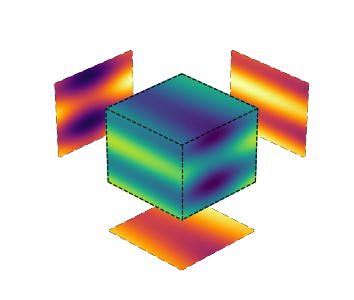
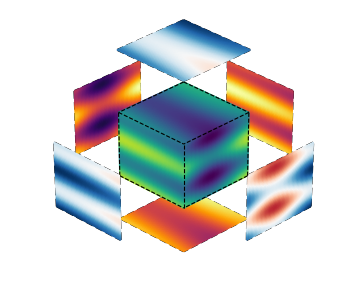
exploded front panels

diff --git a/box.py b/box.py
@@ -164,7 +164,7 @@ class Box:
             lines.set(**fmt)
 
 
-    def draw_top(self):
+    def draw_top(self, cmap=plt.cm.viridis):
         farr = self._check_for_point([None, None, self.z0 + self.dz])
         cors = self.filter_points( farr )
         data_slice = self.data[:,:,-1] 
@@ -176,9 +176,9 @@ class Box:
         z1 = self.z0 + self.dz
         Z = z1*np.ones(X.shape)
 
-        self.draw_surface(X,Y,Z,data_slice)
+        self.draw_surface(X,Y,Z,data_slice, cmap=cmap)
 
-    def draw_left(self):
+    def draw_left(self, cmap=plt.cm.viridis):
         farr = self._check_for_point([None, self.y0 + self.dy, None])
         cors = self.filter_points( farr )
         data_slice = self.data[:,-1,:]
@@ -190,9 +190,9 @@ class Box:
         y1 = self.y0 + self.dy
         Y = y1*np.ones(X.shape)
 
-        self.draw_surface(X,Y,Z,data_slice)
+        self.draw_surface(X,Y,Z,data_slice, cmap=cmap)
 
-    def draw_right(self):
+    def draw_right(self, cmap=plt.cm.viridis):
         farr = self._check_for_point([self.x0 + self.dx, None, None])
         cors = self.filter_points( farr )
         data_slice = self.data[-1,:,:] 
@@ -204,10 +204,10 @@ class Box:
         x1 = self.x0 + self.dx
         X = x1*np.ones(Z.shape)
 
-        self.draw_surface(X,Y,Z,data_slice)
+        self.draw_surface(X,Y,Z,data_slice, cmap=cmap)
 
 
-    def draw_exploded_bottom(self, off=dx):
+    def draw_exploded_bottom(self, off=dx, cmap=plt.cm.inferno):
         farr = self._check_for_point([None, None, self.z0])
         cors = self.filter_points( farr )
         data_slice = self.data[:,:,0] 
@@ -219,10 +219,10 @@ class Box:
         z1 = self.z0 - off
         Z = z1*np.ones(X.shape)
 
-        self.draw_surface(X,Y,Z,data_slice, cmap=plt.cm.inferno)
+        self.draw_surface(X,Y,Z,data_slice, cmap=cmap)
 
 
-    def draw_exploded_left(self, off=dx):
+    def draw_exploded_left(self, off=dx, cmap=plt.cm.inferno):
         farr = self._check_for_point([None, self.y0, None])
         cors = self.filter_points( farr )
         data_slice = self.data[:,0,:]
@@ -234,10 +234,10 @@ class Box:
         y1 = self.y0 - off
         Y = y1*np.ones(X.shape)
 
-        self.draw_surface(X,Y,Z,data_slice, cmap=plt.cm.inferno)
+        self.draw_surface(X,Y,Z,data_slice, cmap=cmap)
 
 
-    def draw_exploded_right(self, off=dx):
+    def draw_exploded_right(self, off=dx, cmap=plt.cm.inferno):
         farr = self._check_for_point([self.x0, None, None])
         cors = self.filter_points( farr )
         data_slice = self.data[0,:,:] 
@@ -249,7 +249,7 @@ class Box:
         x1 = self.x0 - off
         X = x1*np.ones(Z.shape)
 
-        self.draw_surface(X,Y,Z,data_slice, cmap=plt.cm.inferno)
+        self.draw_surface(X,Y,Z,data_slice, cmap=cmap)
 
 
     # mimick volume rendering with multiple opaque slices
@@ -363,6 +363,7 @@ if __name__ == "__main__":
     box.draw_outline()
 
 
+    #back exploded panels
     off = 0.7
     box.draw_exploded_panels_outline("bottom", off=off)
     box.draw_exploded_panels_outline("left",   off=off)
@@ -372,6 +373,17 @@ if __name__ == "__main__":
     box.draw_exploded_left(  off=off)
     box.draw_exploded_right( off=off)
 
+    #front exploded panels
+    off = -1.95
+    cmap = plt.cm.RdBu
+    box.draw_exploded_panels_outline("bottom", off=off)
+    box.draw_exploded_panels_outline("left",   off=off)
+    box.draw_exploded_panels_outline("right",  off=off)
+    
+    box.draw_exploded_bottom(off=off, cmap=cmap)
+    box.draw_exploded_left(  off=off, cmap=cmap)
+    box.draw_exploded_right( off=off, cmap=cmap)
+
 
     axs[0].set_axis_off()
     axs[0].view_init(35.0, 45.0)
@@ -379,7 +391,7 @@ if __name__ == "__main__":
 
     axisEqual3D(axs[0])
     fname = 'box'
-    plt.subplots_adjust(left=0.0, bottom=0.0, right=1.0, top=1.0)
+    plt.subplots_adjust(left=-0.2, bottom=-0.2, right=1.2, top=1.2)
     plt.savefig(fname+'.pdf')
     plt.savefig(fname+'.png')
     
